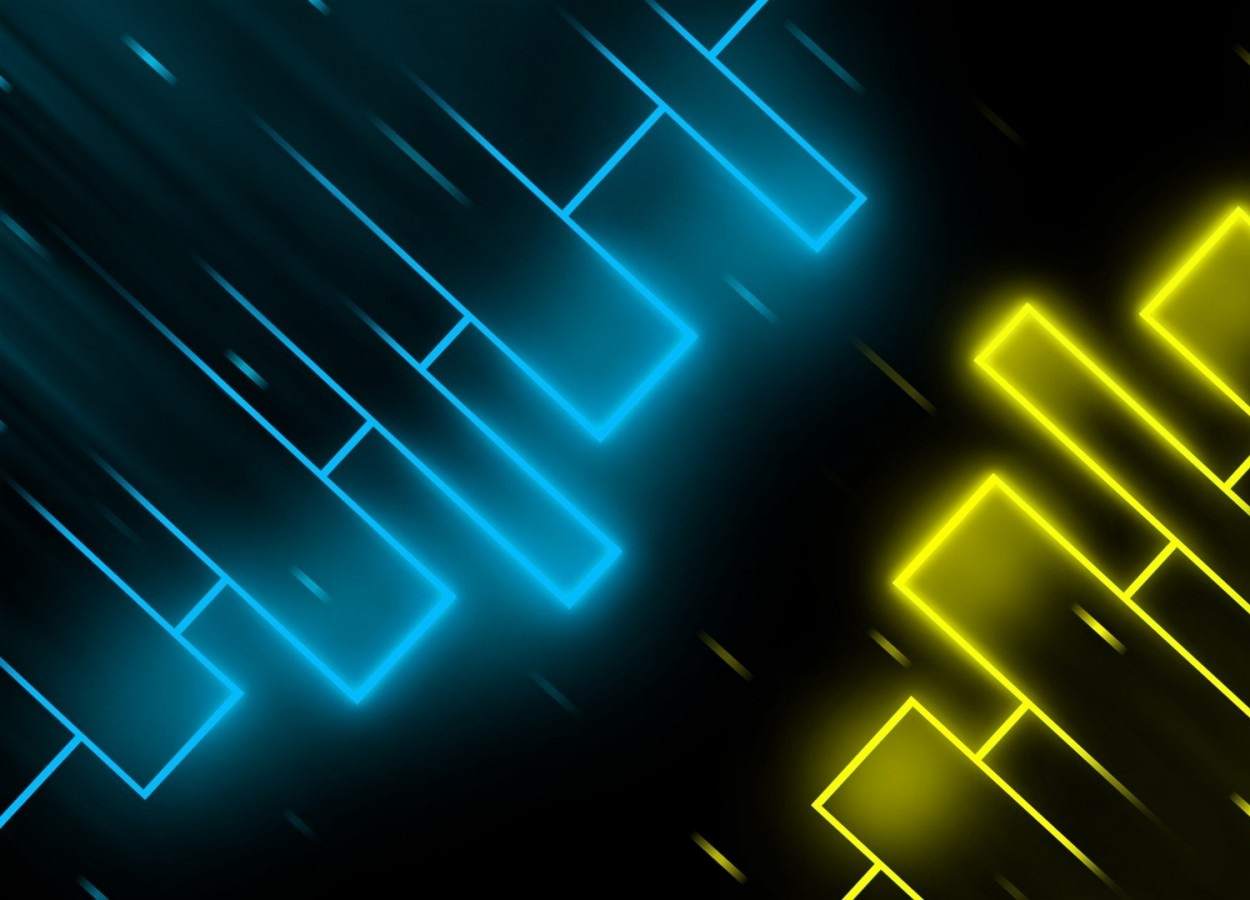
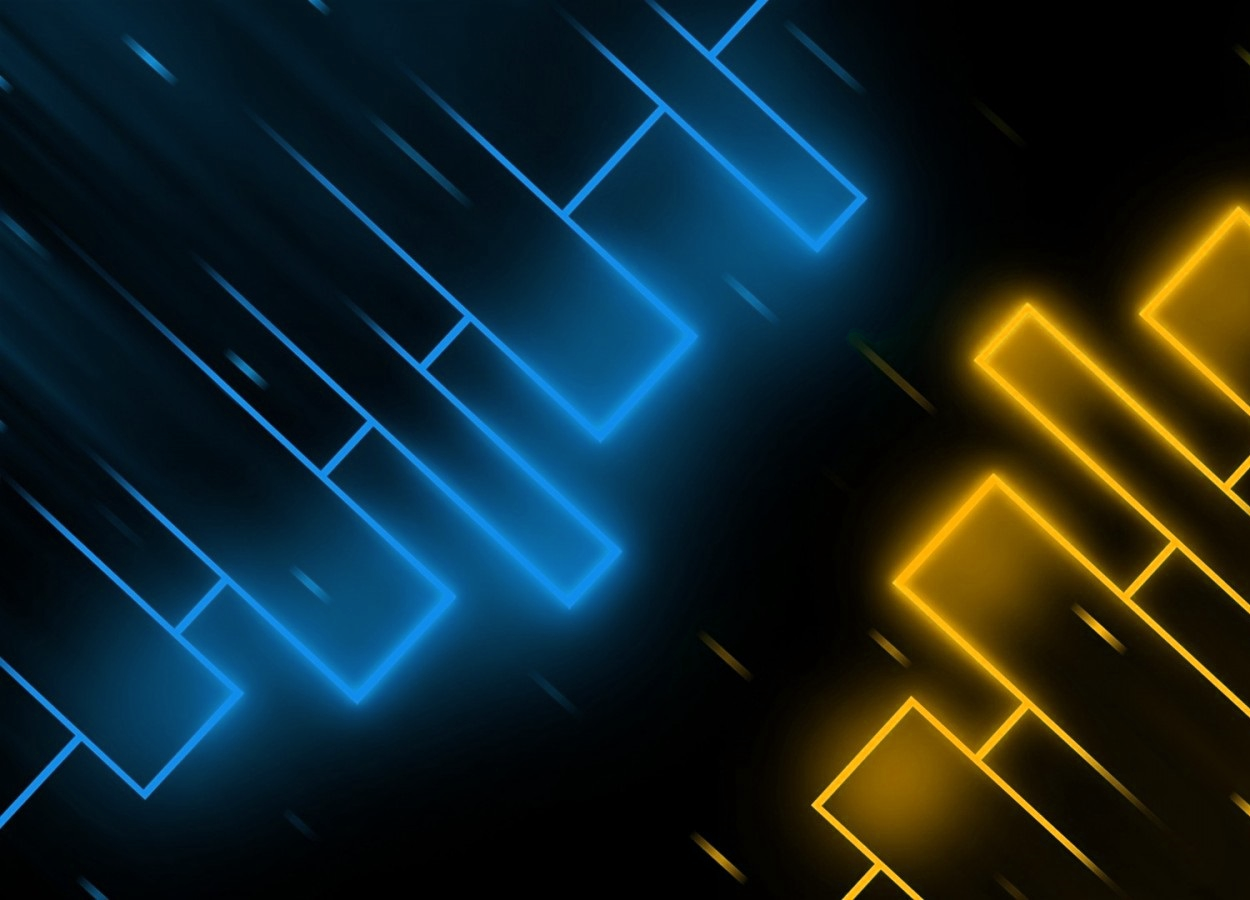
sign

diff --git a/assets/css/style.css b/assets/css/style.css
@@ -60,7 +60,7 @@ nav .sign-home {
 h1 p{
 	font-family: 'Boogaloo', cursive;
 	font-size: 75%;
-	padding: 0 10px;
+	padding: 0 15px;
 }
 h1{
 	text-align: center;
@@ -83,7 +83,13 @@ h3{
 	text-align: center;
 	font-family: 'Bungee', cursive;
 	font-size: 2em;
-	padding: 10px;
+	padding: 15px;
+}
+
+form {
+	font-family: 'Google Sans',arial,sans-serif;
+	text-align: center;
+	font-weight: bold;
 }
 
 /*------------------------------------------------------------------------
@@ -341,7 +347,7 @@ leftMenu{
 /*\/-\/-\/-\/-\/-\/-\/-\/- SIGN START -\/-\/-\/-\/-\/-\/-\/-\/*/
 
 .sign{
-	background: url("https://c.wallhere.com/photos/76/4b/form_shape_connection_cloudy-685975.jpg!d") no-repeat;
+	background: url("https://cdn.discordapp.com/attachments/534778554156843029/537566512186130432/unknown.png") no-repeat;
 	background-size: cover;
 	padding: 10px;
 	width: 100%;
@@ -356,6 +362,73 @@ leftMenu{
 	margin: 4% 24%;
 	box-shadow: 0 0 20px #e6e6e6ba;
 }
+
+.sign h3{
+	padding: 50px 0;
+}
+
+.sign p{
+	font-weight: bold;
+}
+
+.text{
+	margin: 20px 10px;
+	padding: 10px;
+	width: 60%;
+	height: 60px;
+}
+
+.up .text{
+	height: initial;
+}
+.upInput{
+	margin: 20px 10px;
+	padding: 10px;
+}
+
+#show {
+	display: block;
+}
+
+#hide {
+	display: none;
+}
+
+/*----------------------------------------SIGN IN----------------------------------------*/
+
+#signUp {
+	background: none;
+	border: none;
+	cursor: pointer;
+	margin: 30px 20% 20px 0;
+	color: #6288b5;
+	transition: all 3s ease;
+}
+
+#signUp:hover{
+	color: #ffb733;
+	transition: all 3s ease;
+}
+
+#next {
+	cursor: pointer;
+	padding: 10px;
+	background: #6288b5;
+	border-radius: 8px;
+	width: 90px;
+	border: none;
+	color: white;
+	transition: all 3s ease;
+
+}
+
+#next:hover{
+	background: #ffb733;
+	transition: all 3s ease;
+}
+
+/*----------------------------------------SIGN UP----------------------------------------*/
+
 
 /*/\-/\-/\-/\-/\-/\-/\-/\- SIGN END -/\-/\-/\-/\-/\-/\-/\-/\*/
 

diff --git a/views/viewSign.html.php b/views/viewSign.html.php
@@ -3,12 +3,46 @@
     <div class="container-page">
         <div class="sign">
             <div class="sign-panel">
-                <h3>Login</h3>
-                <form action="">
+                <h3><i class="fas fa-sign-in-alt"></i> Connection</h3>
 
+<!-- ----------------------------------------SIGN IN---------------------------------------- -->
+                <form class="in" id="show" action="">
+                    <p>Sign in</p> <br>
+                    <input type="email" class="text" id="email" name="email" required="required" placeholder="Email address"><br>
+                    <input type="password" class="text" id="password" name="password" required="required" placeholder="Password">
+                    <input type="button" id="signUp" value="create an account" onclick="inToUp()">
+                    <input type="submit" id="next" value="Submit">
+                </form>
+
+<!-- ----------------------------------------SIGN UP---------------------------------------- -->
+                <form class="up" id="hide" action="">
+                    <p>Sign up</p> <br>
+                    <input type="text" class="upInput" id="name" name="name" required="required" placeholder="Last name">
+                    <input type="text" class="upInput" id="firstName" name="firstName" required="required" placeholder="First name"><br>
+                    <input type="email" class="text" id="email" name="email" required="required" placeholder="Email address"><br>
+                    <input type="password" class="upInput" id="password" name="password" required="required" placeholder="Password">
+                    <input type="password" class="upInput" id="confirmPassword" name="confirmPassword" required="required" placeholder="Confirm password">
+                    <input type="button" id="signUp" value="create an account" onclick="inToUp()">
+                    <input type="submit" id="next" value="Submit">
                 </form>
             </div>
         </div>
     </div>
+
+    <script>
+        function inToUp() {
+            let myIn = document.querySelector(".in");
+            let myUp = document.querySelector(".up");
+            if(myIn.id=="show"){
+                myIn.setAttribute("id", "hide");
+                myUp.setAttribute("id", "show");
+            }
+            else if(myIn.id=="hide"){
+                myIn.setAttribute("id", "show");
+                myUp.setAttribute("id", "hide");
+            }
+            return 0;
+        }
+    </script>
 
 <?php require_once('footer.inc.php') ?>
